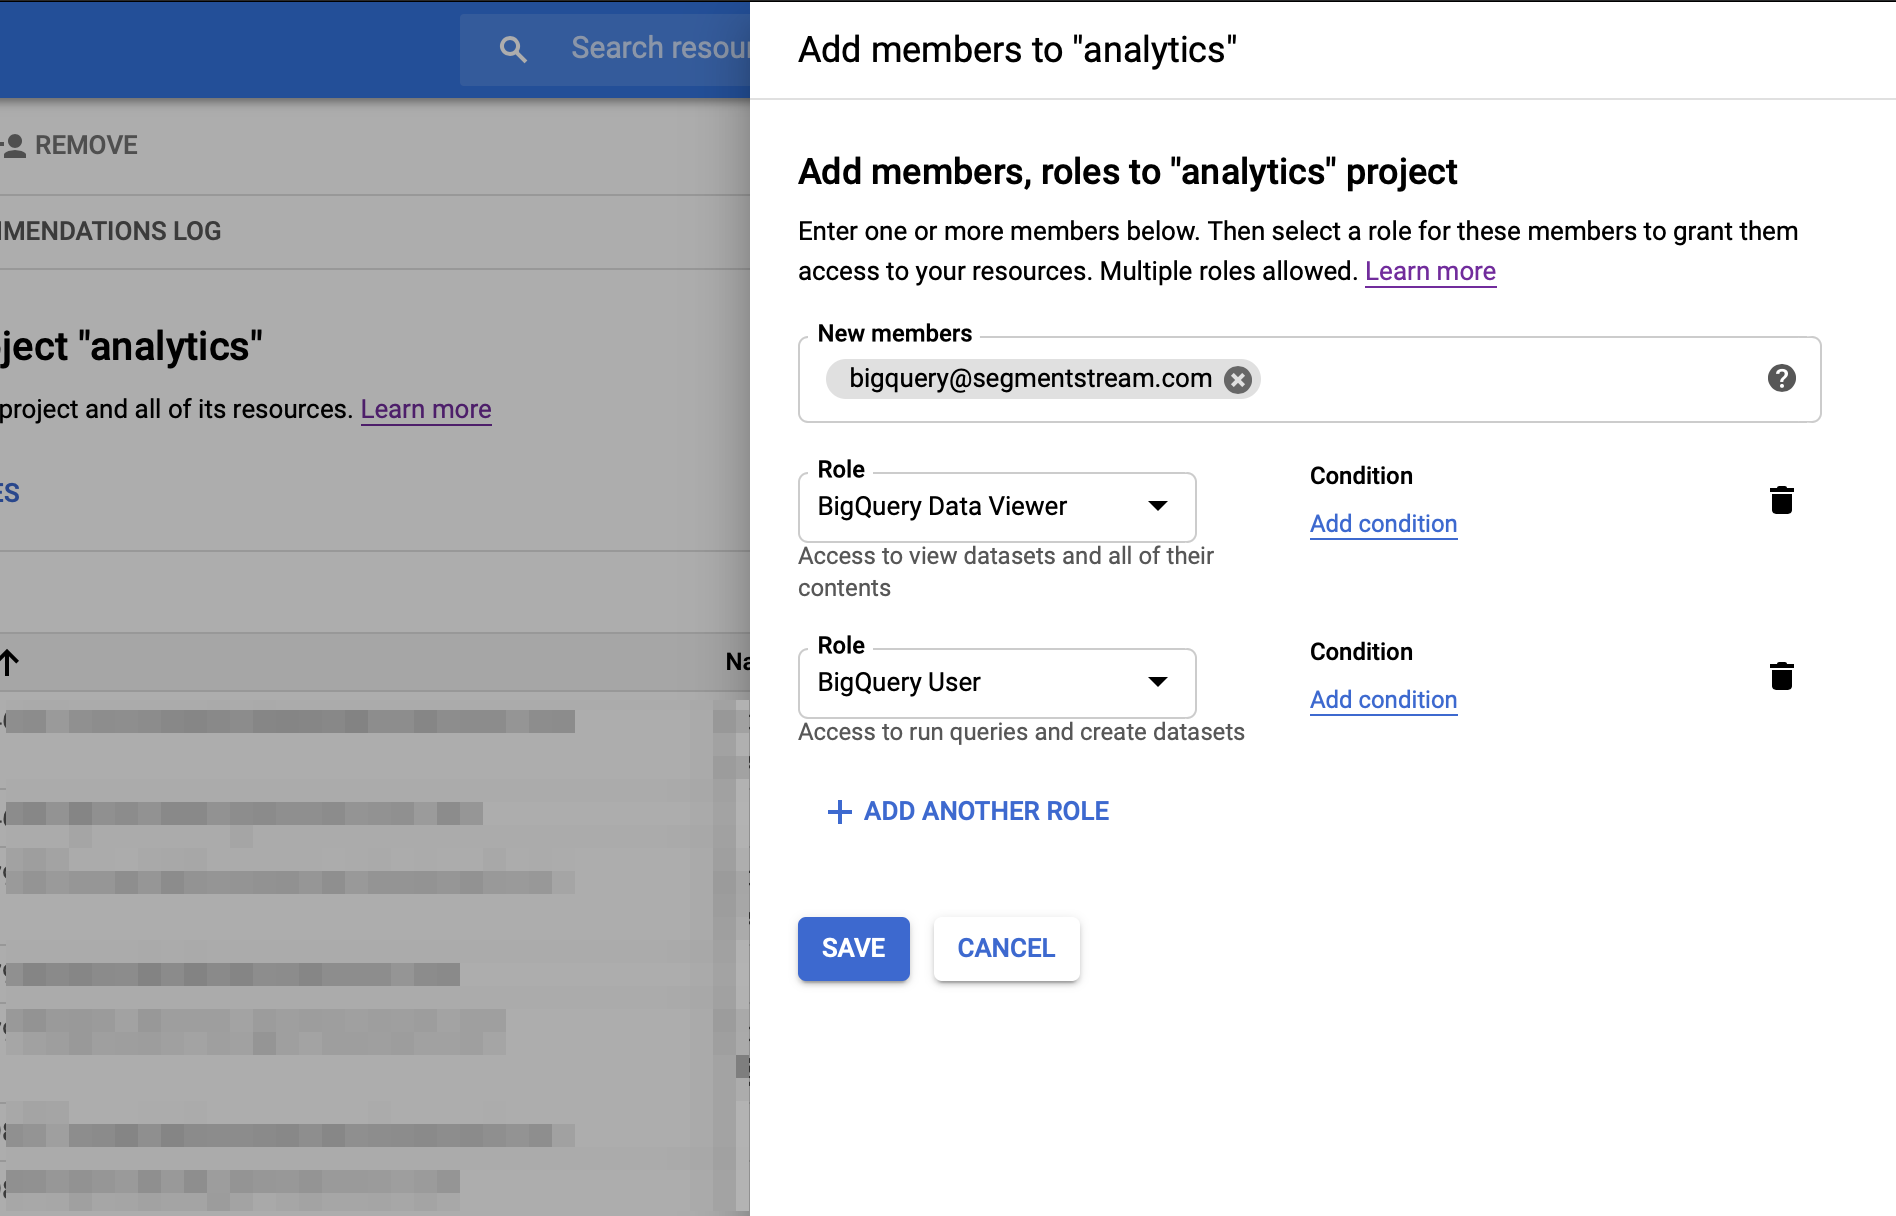
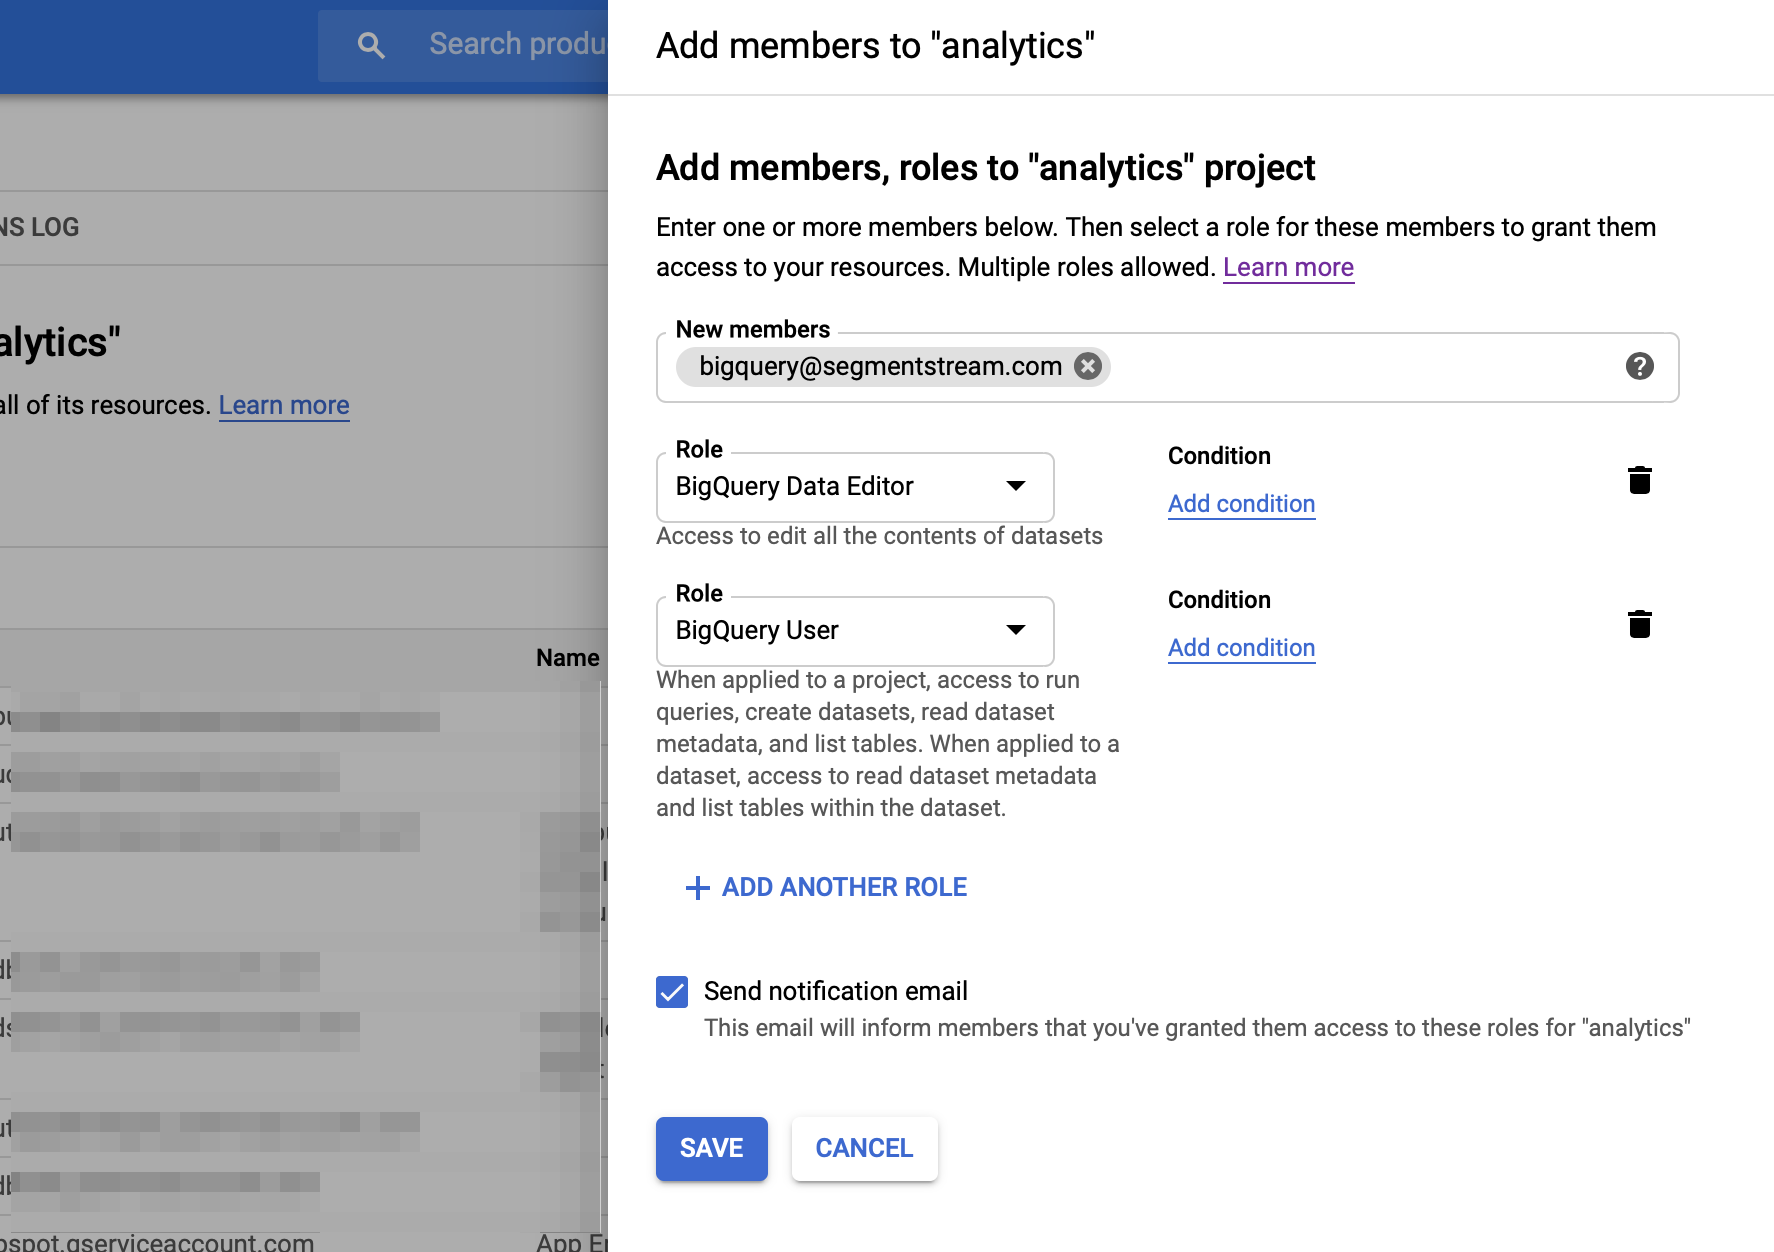
bq access docs update

diff --git a/_docs/bigquery/bigquery-access.md b/_docs/bigquery/bigquery-access.md
@@ -21,8 +21,9 @@ Below are the steps that explain how to give access to the SegmentStream support
 ![BigQuery add IAM](/img/bigquery/bq-access-2.png)
 
 4. Enter the `bigquery@segmentstream.com` email address into **New Members** field.
-5. Select **BigQuery Data Viewer** and **BigQuery User** roles.
-6. Click **Save**.
+5. Select **BigQuery Data Editor** and **BigQuery User** roles.
+6. Enable **Send notification email** checkbox.
+7. Click **Save**.
 ![BigQuery add IAM roles](/img/bigquery/bq-access-3.png)
 
-7. Let your SegmentStream support know that the access was granted.
+8. Let your SegmentStream support know that the access was granted.
